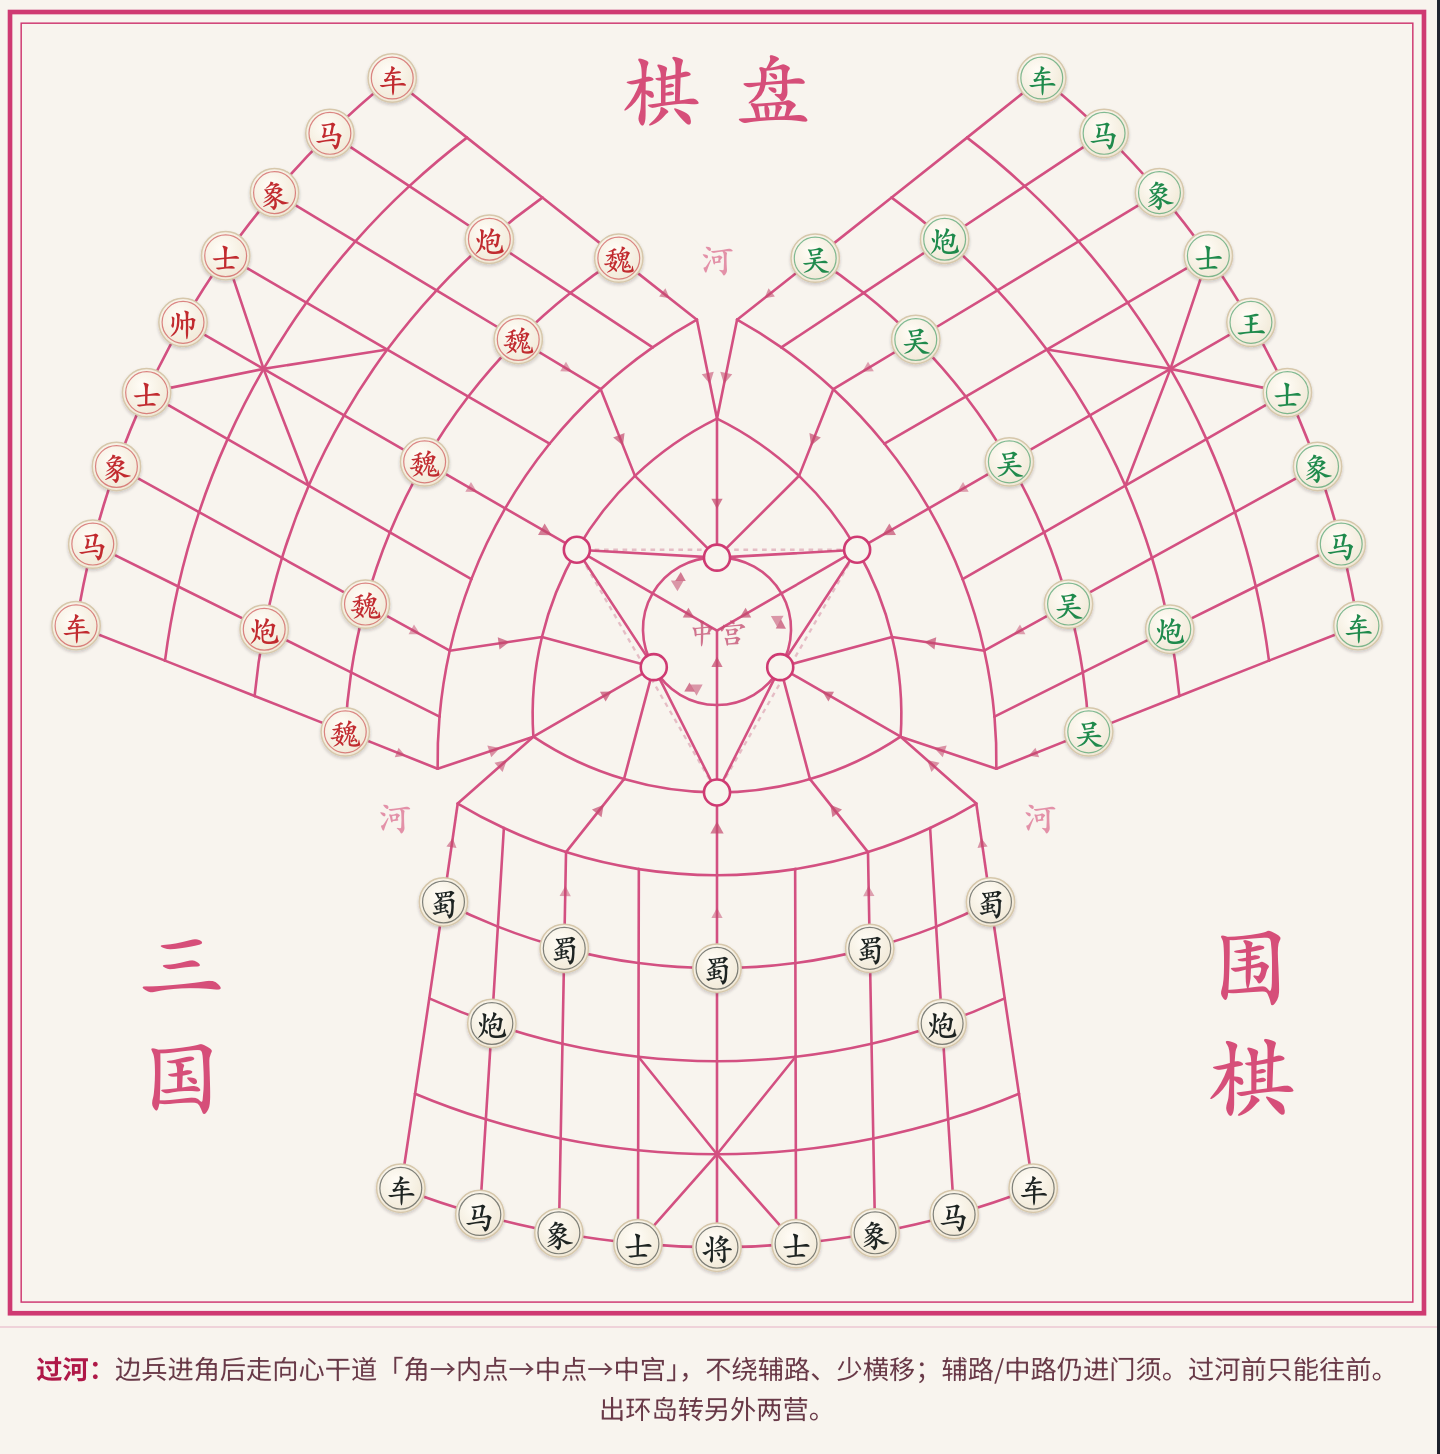
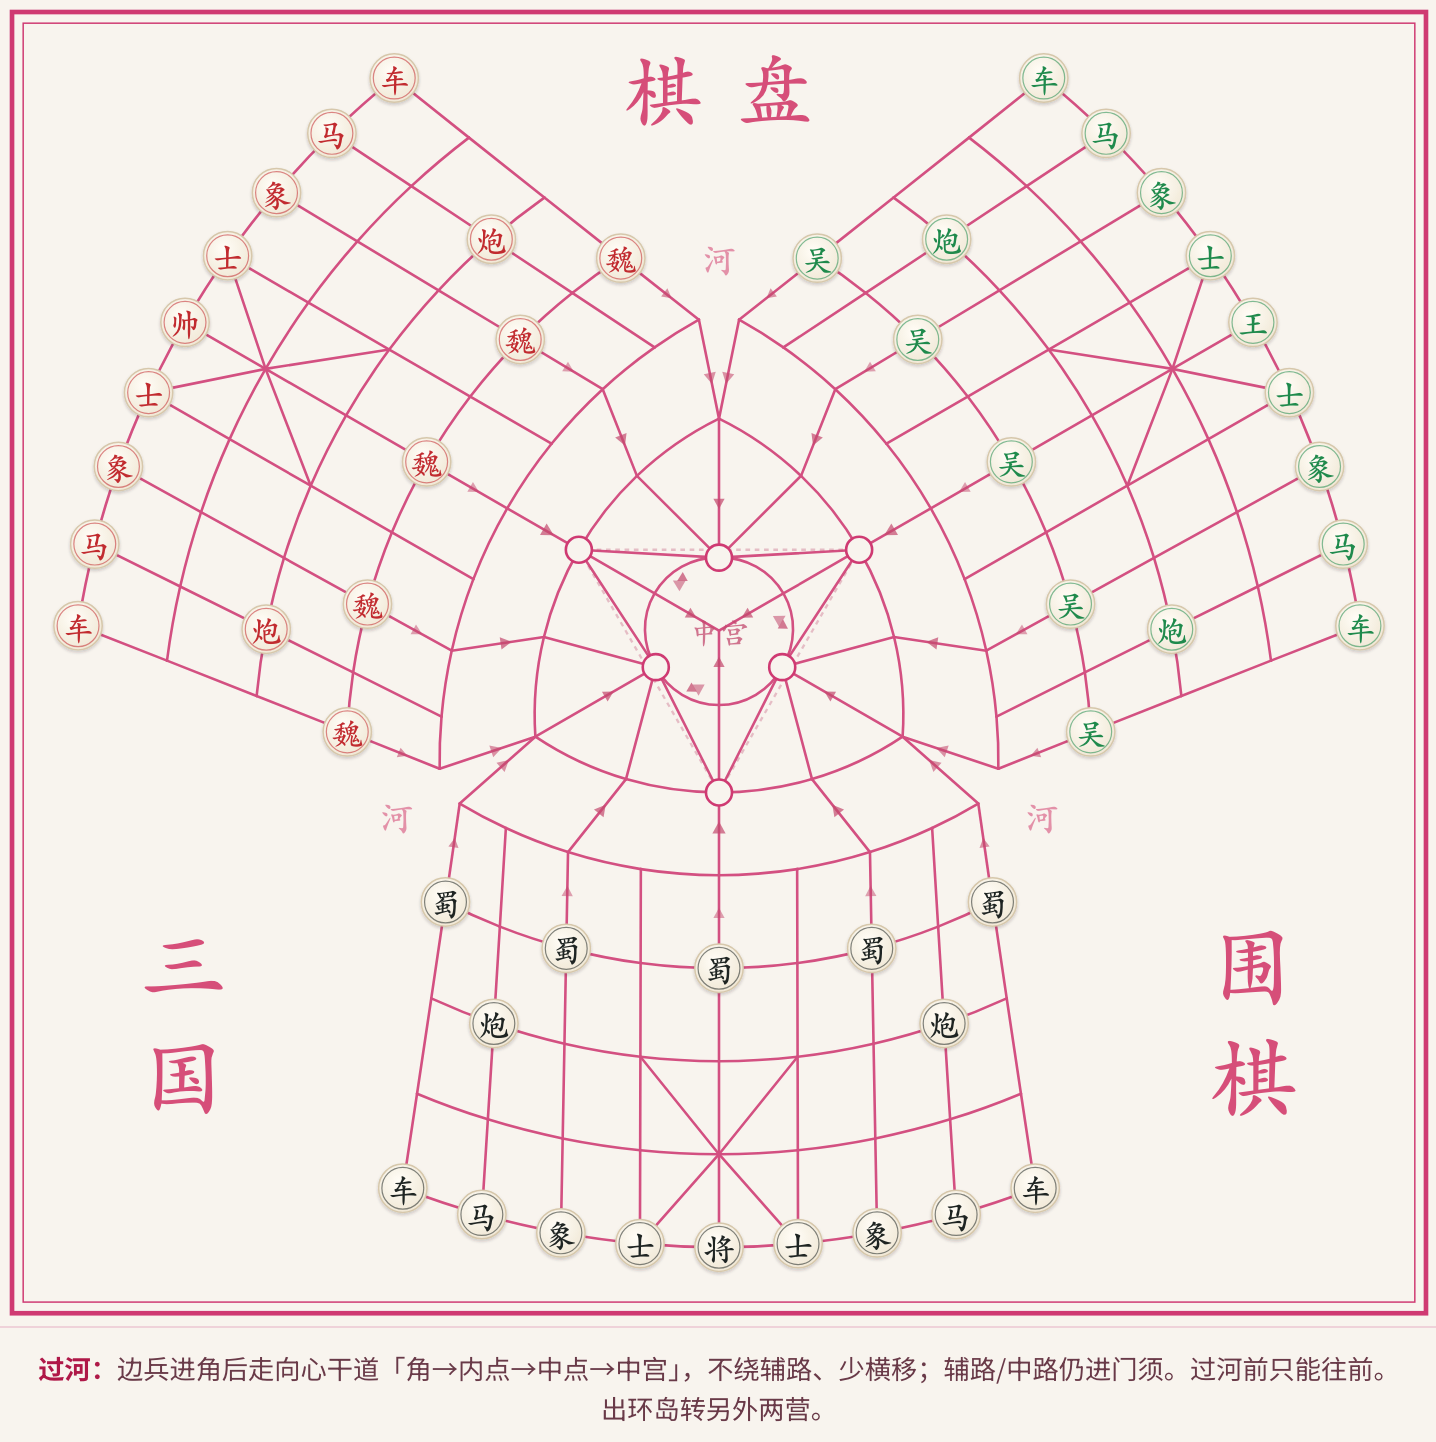
docs(readme): 换回正确的棋盘图，删掉「Pieces show…」说明块
## 棋盘图

上一轮我替换错了版本（两者内容有实质差异，缩到同一尺寸后平均像素差 10.39）。

现在仓库里的 `docs/diagrams/board.png` 与你给的那张**字节级完全一致**：

  sha256 = 79932073522af029ac95260aa96f65d011788f0d17ab1c3095cd18ef77ad8aaa
  1436×1442

## 删掉的说明块

    > Pieces show the three kingdoms; the seat panels show camp colours
    > (红营 / 黑营 / 绿营). Same three seats, two vocabularies.

已整块移除（含引用符号与空行），README 里 `Pieces show` 无残留。

棋盘图现在直接接在配文之后，中间不再有别的段落。

## 校验

六张图 sha256 各不相同。

diff --git a/README.md b/README.md
@@ -37,9 +37,6 @@ advancing**, and once you are through, the only way on is the inward spoke towar
 central palace. Two players can be standing on adjacent nodes with no legal move between
 them.
 
-> Pieces show the three kingdoms; the seat panels show camp colours
-> (红营 / 黑营 / 绿营). Same three seats, two vocabularies.
-
 ![The seat ledger](docs/diagrams/seat-ledger.png)
 
 The seat panel is a **dual ledger**: *play balance* is fuel — burned on every move, gone from
